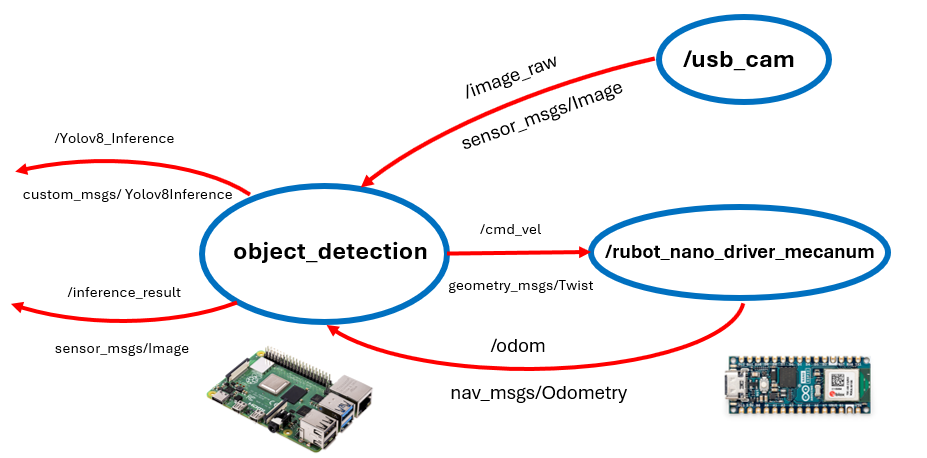
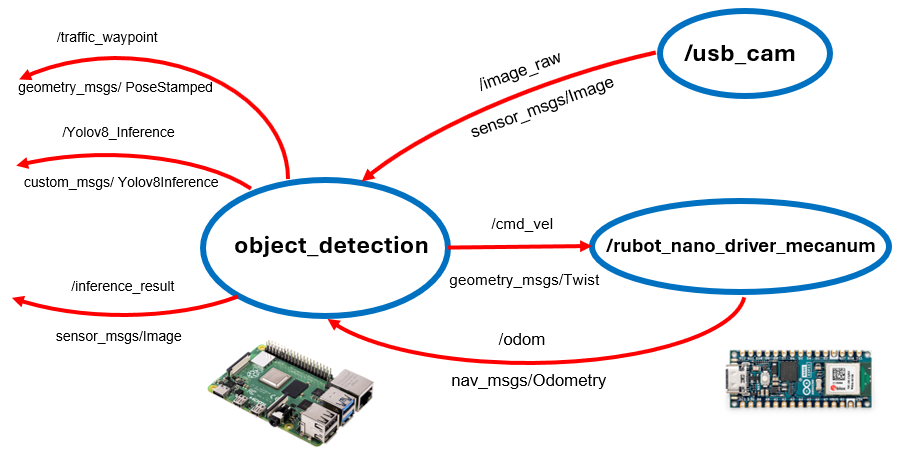
updated yolo with nav2

diff --git a/src/AI_Projects/my_robot_ai_identification/setup.py b/src/AI_Projects/my_robot_ai_identification/setup.py
@@ -29,7 +29,7 @@ setup(
             'take_photo_exec = my_robot_ai_identification.take_photo:main',
             'takePhoto_detectSign_keras_exec = my_robot_ai_identification.takePhoto_detectSign_keras:main',
             'limo_rt_prediction_yolo_exec = my_robot_ai_identification.limo_rt_prediction_yolo:main',
-            'rubot_navigation_yolo_exec = my_robot_ai_identification.rubot_navigation_yolo:main',
+            'rubot_detection_yolo_exec = my_robot_ai_identification.rubot_detection_yolo:main',
         ],
     },
 )

diff --git a/src/Navigation_Projects/my_robot_nav_control/launch/rubot_nav2_wp_yolo.launch.py b/src/Navigation_Projects/my_robot_nav_control/launch/rubot_nav2_wp_yolo.launch.py
@@ -13,7 +13,7 @@ def generate_launch_description():
     nav_node = Node(
         package='my_robot_nav_control',     # <-- posa el teu paquet real
         executable='rubot_nav2_wp_yolo_exec',        # <-- nom del console_script al setup.py
-        name='nav_waypoints_node',                # <-- igual que el node i el YAML
+        name='custom_nav2',                # <-- igual que el node i el YAML
         output='screen',
         parameters=[params_file]
     )

diff --git a/src/AI_Projects/my_robot_ai_identification/launch/rubot_detection_wp_yolo.launch.py b/src/AI_Projects/my_robot_ai_identification/launch/rubot_detection_wp_yolo.launch.py
@@ -12,7 +12,7 @@ def generate_launch_description():
 
     yolo_node = Node(
         package='my_robot_ai_identification',
-        executable='rubot_navigation_yolo_exec',
+        executable='rubot_detection_yolo_exec',
         name='object_detection',
         output='screen',
         parameters=[params_file]

diff --git a/src/AI_Projects/my_robot_ai_identification/launch/rubot_detection_yolo.launch.py b/src/AI_Projects/my_robot_ai_identification/launch/rubot_detection_yolo.launch.py
@@ -12,7 +12,7 @@ def generate_launch_description():
 
     yolo_node = Node(
         package='my_robot_ai_identification',
-        executable='rubot_navigation_yolo_exec',
+        executable='rubot_detection_yolo_exec',
         name='object_detection',
         output='screen',
         parameters=[params_file]

diff --git a/src/Navigation_Projects/my_robot_nav_control/my_robot_nav_control/rubot_nav2_wp_yolo.py b/src/Navigation_Projects/my_robot_nav_control/my_robot_nav_control/rubot_nav2_wp_yolo.py
@@ -9,7 +9,7 @@ import tf_transformations
 
 class NavigationTask(Node):
     def __init__(self):
-        super().__init__('nav_waypoints_node')
+        super().__init__('custon_nav2')
 
         # --- Nav2 Simple Commander ---
         self.navigator = BasicNavigator()

diff --git a/Documentation/05b_Project_TrafficSigns_YOLO_AGV.md b/Documentation/05b_Project_TrafficSigns_YOLO_AGV.md
@@ -64,31 +64,34 @@ To proceed with the signal identification we first bringup the robot and navigat
         ````
         > Be sure the Odometry message is zero when starting the navigation.
 
-## **3. Signal prediction**
+## **3. Signal detection**
 
-You can make a prediction of the signal that the robot find on its path to target pose:
-- for 1 test image (use ``picture_prediction_yolo.py``). 
-- for video images from robot camera when moving to target (use ``rubot_navigation_yolo.py``)
+You can make a detection of the signal that the robot find on its path to target pose:
+- for 1 test image (use ``picture_detection_yolo.py``). 
+- for video images from robot camera when moving to target (use ``rubot_detection_yolo.py``)
 - The schematic nodes, topics and messages are shown below:
     ![](./Images/07_Yolo/09_yolo_detection_topics.png)
 
 **Software** test in Gazebo: 
-- Use the ``rubot_navigation_yolo.py`` after the navigation node is launched.
+- Use the ``rubot_detection_yolo.py`` after the navigation node is launched.
     ````shell
-    ros2 run my_robot_ai_identification limo_rt_prediction_yolo_exec
+    ros2 run my_robot_ai_identification rubot_detection_yolo_exec
     ````
     > You have to verify the model path to '/home/user/ROS2_rUBot_mecanum_ws/src/AI_Projects/my_robot_ai_identification/models/yolov8n_custom.pt
 
-    > If you are using rUBot robot change the exec to `rubot_navigation_yolo_exec`
-
     > Verify also the the camera topic if you are using rUBot or Limo
 
-- To see the image with prediction on RVIZ2, select a new Image message on topic /inference_result
+- To see the image with prediction:
+    - on RVIZ2, select a new Image message on topic /inference_result
     ![](./Images/07_Yolo/11_prediction_sw.png)
     ![](./Images/07_Yolo/11_prediction_sw2.png)
+    - or use ``rqt_image_view`` in a new terminal
+        ````shell
+        rqt_image_view /inference_result
+        ````
 
-**Hardware** Test in real LIMO robot:
-- If you want to execute on Limo robot, you have to install on the Limo robot container:
+**Hardware** Test in real robot:
+- If you want to execute on real `LIMO robot`, you have to install and execute on the Limo robot container:
     ````shell
     apt update
     apt install python3-pip
@@ -104,35 +107,46 @@ You can make a prediction of the signal that the robot find on its path to targe
     apt install build-essential
     colcon build
     source install/setup.bash
-    ros2 run my_robot_ai_identification rt_prediction_yolo_exec
-    ````
-    
-- Run The real-time prediction:
-    ````shell
     ros2 run my_robot_ai_identification limo_rt_prediction_yolo_exec
     ````
-    
-## **5. Robot actuation after prediction**
 
-Consider:
-- Predefined map positions of traffic signs. These coordinates MUST be in the same reference frame as the robot's odometry (/odom) or /map (depending on your setup).
-- If YOLO detects a sign AND the robot is within "front_distance" parameter value of the corresponding sign position, then the robot reacts.
-- Specify the sign positions in a `yolo_signs.yaml` file as follows:
-    ```yaml
-    sign_positions: |
-      STOP:      [2.30, -1.00]   # STOP sign position (x, y)
-      Ceda:      [5.00,  0.20]   # Yield (Ceda el paso)
-      Derecha:   [7.10,  1.40]   # Turn right
-      Izquierda: [7.10, -1.40]   # Turn left
-      Prohibido: [9.00,  0.00]   # No entry / forbidden
-    ````
-    > Include "|" (vertical bar) to specify multiline string in YAML.
-- To launch the robot actuation node after prediction, use:
+- If you want to execute on real `rUBot robot`, you have to execute:
     ````shell
-    ros2 launch my_robot_ai_identification rubot_navigation_yolo.launch.py
+    ros2 launch my_robot_ai_identification rubot_detection_wp_yolo.launch.py
     ````
+The main characteristics of this `object_detection` node are:
+- It uses the YOLOv8 model previously trained to detect the traffic signs.
+- Computes its distance from the robot using:
+    - the depth image from the camera (if available)
+    - or using the information of the traffic signal location in the map (`yolo_signals.yaml` file in `config` folder)
+- Publishes the image wit the detected sign bounding box in the `/inference_result` topic
+- Publishes a new waypoint in the `/traffic_waypoint` topic when a `left`or `right` sign is detected
 
-- For the new strategy, use:
+You can see that this `object_detection` node is:
+- usefull for  `stop`, `ceda` and `forbidden` signs, because the robot has to stop the movement
+- NOT usefull for `turn right` and `turn left` signs, because the node publishes a new `waypoint` who is not able to be automatically integrated in the navigation2 stack.
+
+We have to create a new `custom_nav2` node that can integrate the new waypoint in the navigation2 stack.
+
+## **4. Custom Navigation with signal detection**
+
+Considering the previous `object_detection` node, we have created a new `custom_nav2` node that:
+- Reads the `initial_pose`, `waypoint` and `target_pose` from a YAML file
+- Subscribes to `/traffic_waypoint` topic where the `object_detection` node publishes the waypoint when a sign is detected
+- Calls the `BasicNavigator.goToPose()` method (that publishes to `/navigate_to_pose` topic) to go first to the waypoint (YOLO or YAML) and then to the target_pose.
+
+    ![](./Images/07_Yolo/12_yolo_custom_nav2.png)
+
+To launch the robot Custom Navigation with signal detection, use:
+- Launch the `object_detection` node with:
     ````shell
-    ros2 launch my_robot_ai_identification rubot_navigation_wp_yolo.launch.py
+    ros2 launch my_robot_ai_identification rubot_detection_wp_yolo.launch.py topic:=/image_raw front_distance:=0.3 Izquierda:=[1.80, 0.0]
+    ````
+- Launch the `custom_nav2` node with:
+    ````shell
+    ros2 launch my_robot_nav_control rubot_nav2_wp_yolo.launch.py target_pose:=[8.0, -0.5, 1.57]
+    ````
+- use ``rqt_image_view`` in a new terminal
+    ````shell
+    rqt_image_view /inference_result
     ````
